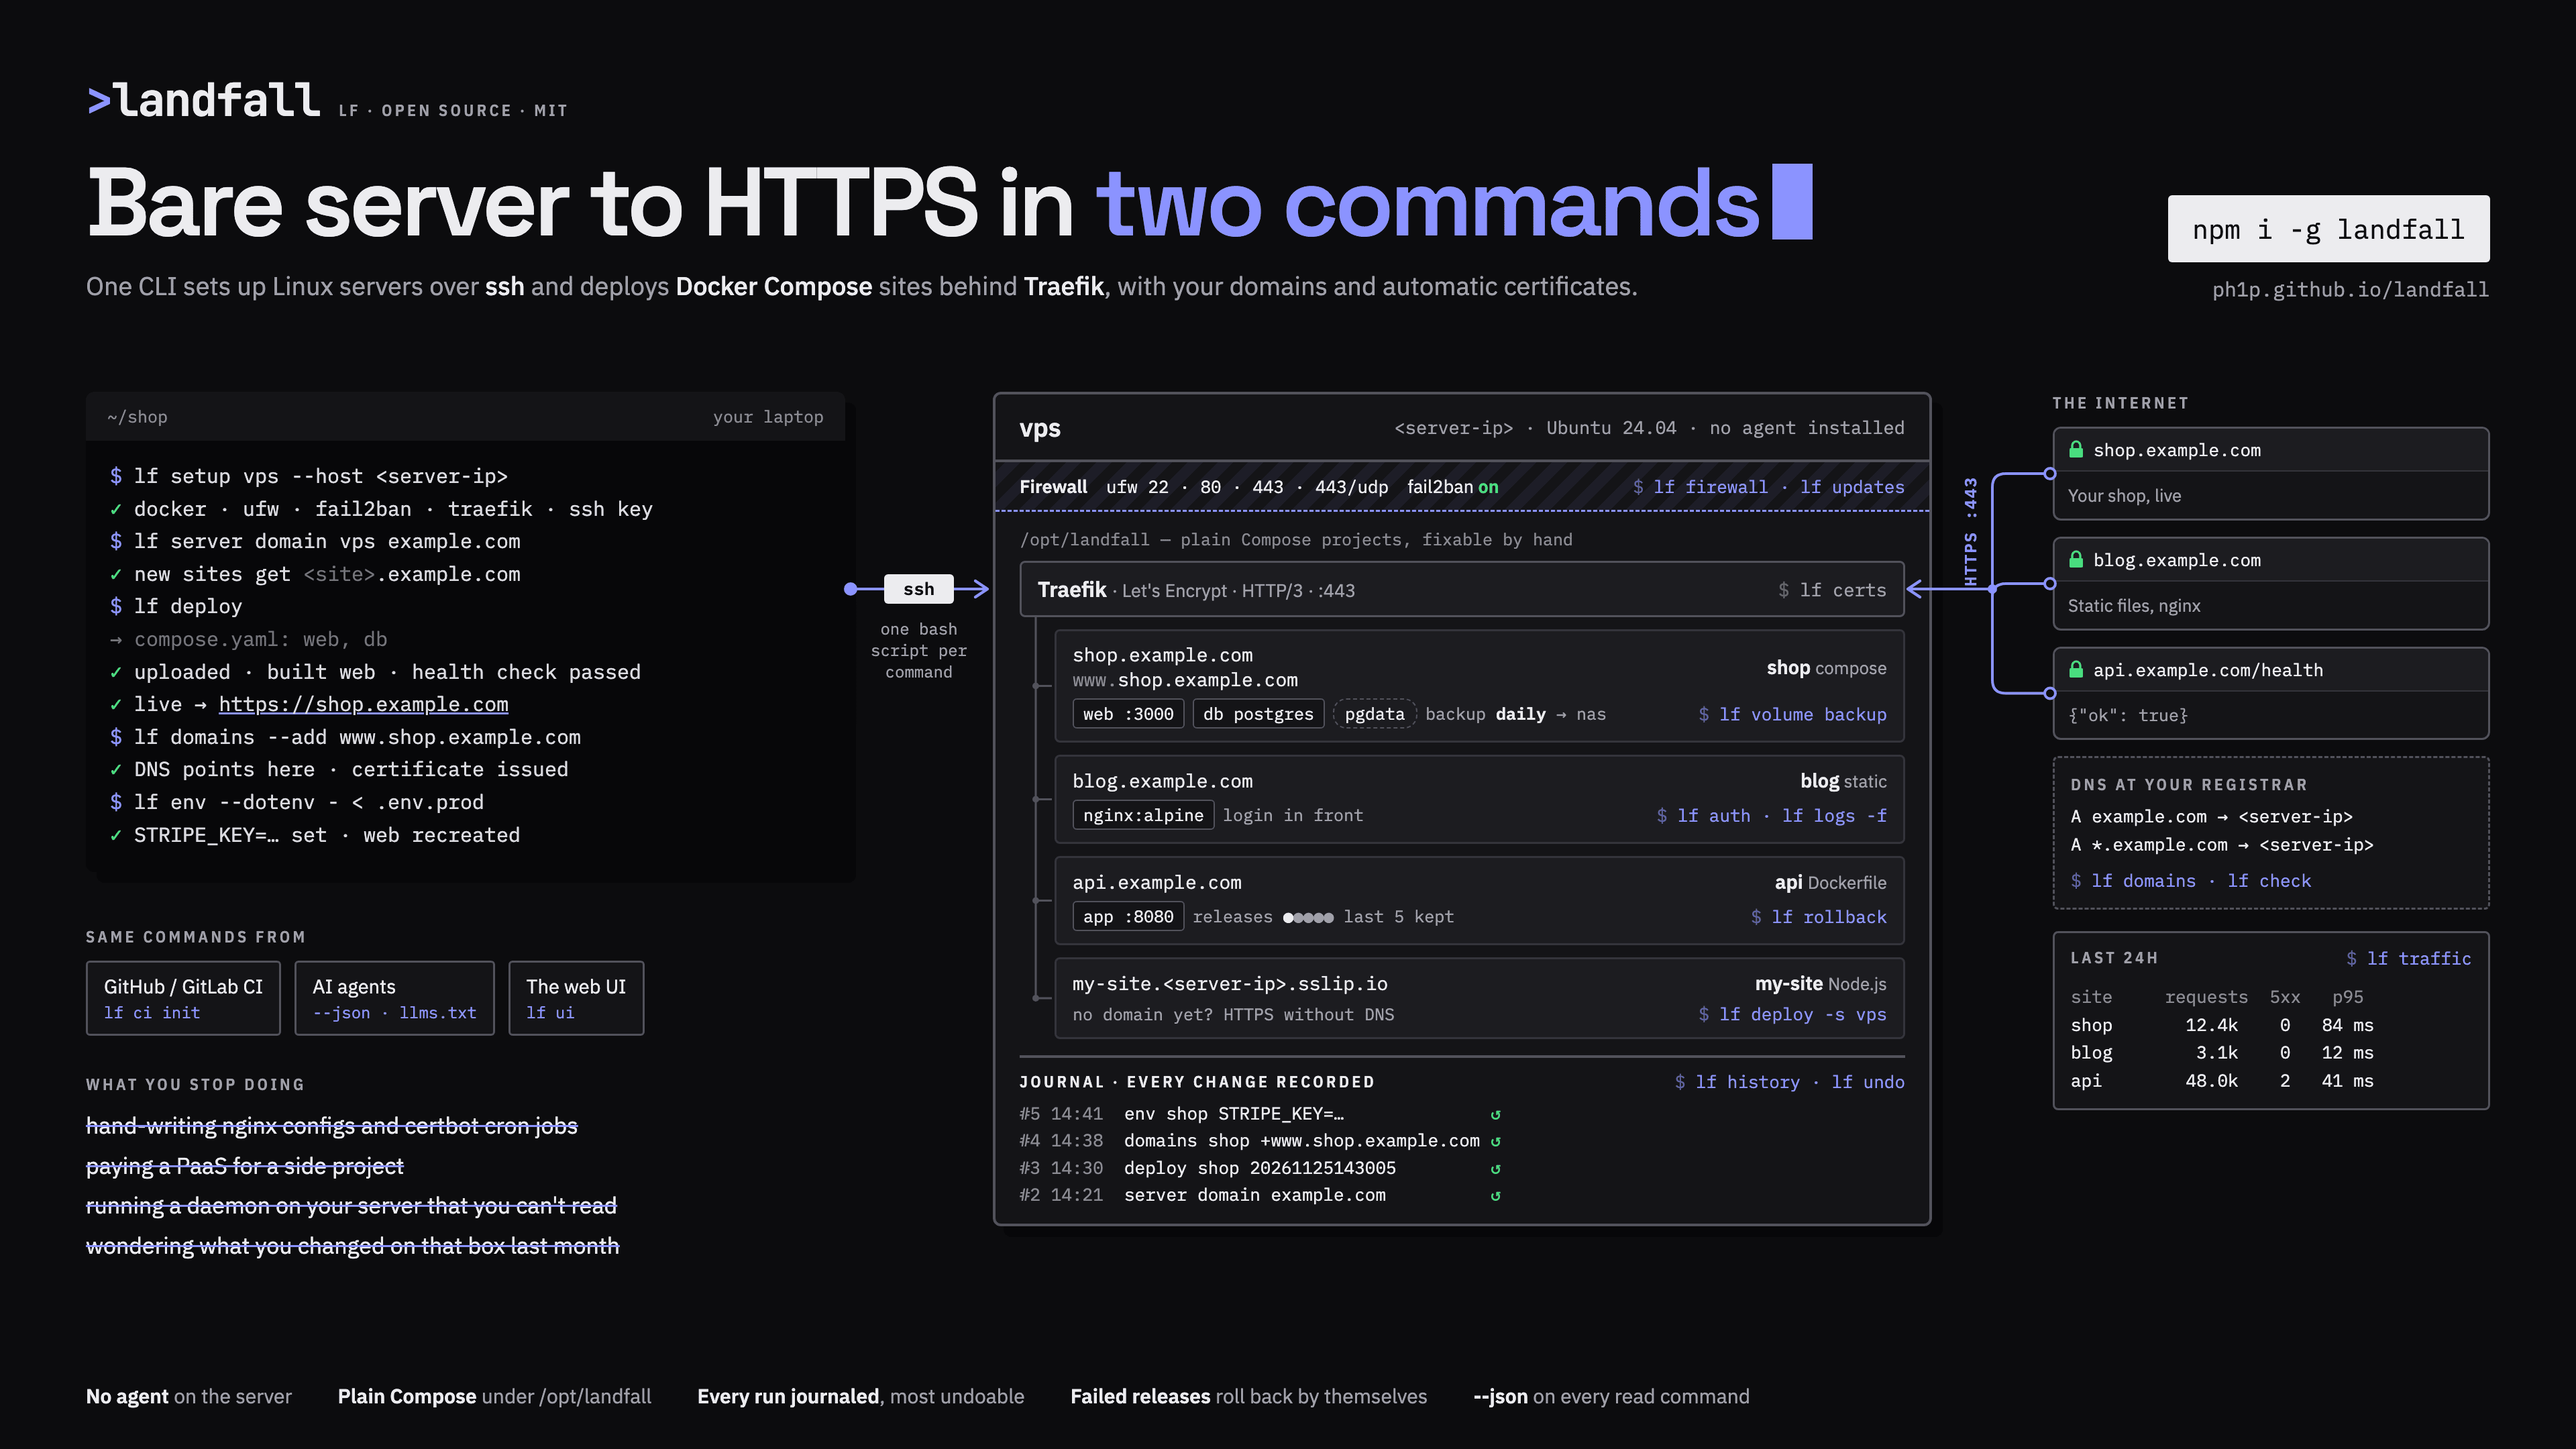
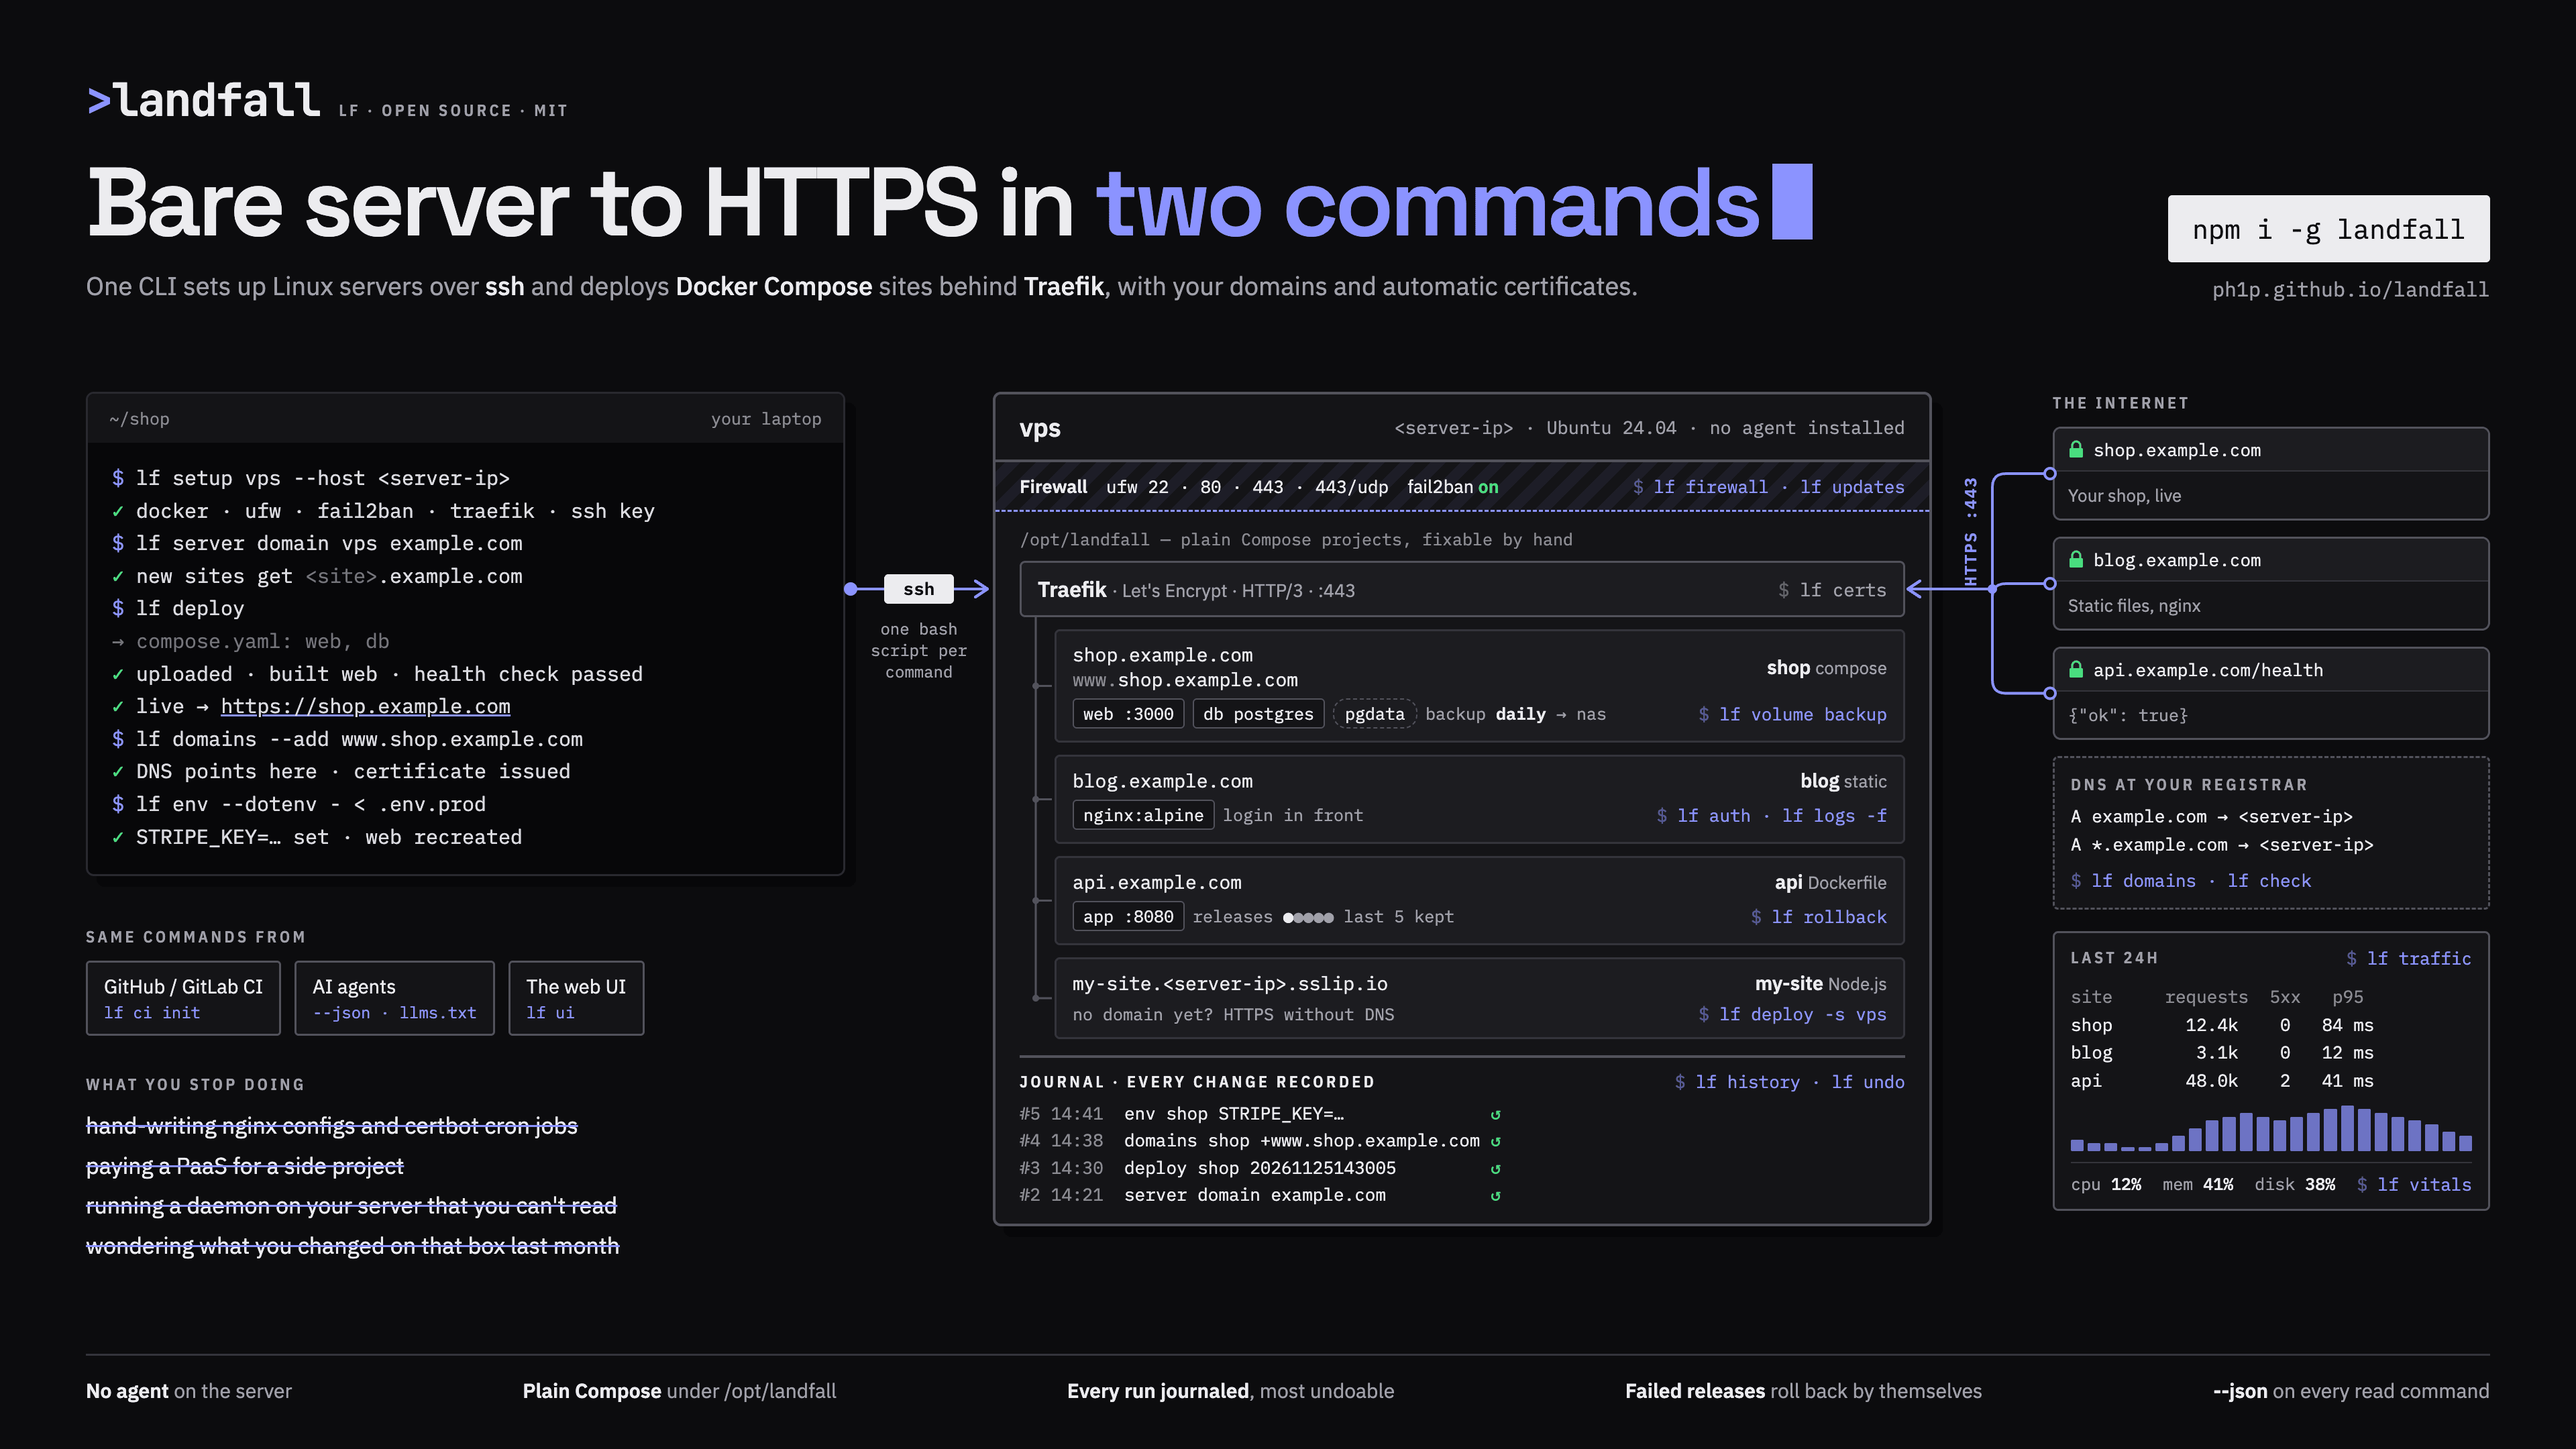
docs: redraw the overview image for light and dark mode
Fix the light theme's shadow and firewall stripe, add traffic and vitals
to the stats card, and give the footer a rule. The docs home shows the
image matching the Vocs theme through #gh-*-mode-only and _root.css.

diff --git a/docs/pages/_root.css b/docs/pages/_root.css
@@ -1,0 +1,18 @@
+/* Images marked #gh-light-mode-only / #gh-dark-mode-only show in one theme, as on GitHub. */
+img[src$="#gh-dark-mode-only"] {
+  display: none;
+}
+@media (prefers-color-scheme: dark) {
+  :root:not([data-vocs-theme="light"]) img[src$="#gh-light-mode-only"] {
+    display: none;
+  }
+  :root:not([data-vocs-theme="light"]) img[src$="#gh-dark-mode-only"] {
+    display: block;
+  }
+}
+:root[data-vocs-theme="dark"] img[src$="#gh-light-mode-only"] {
+  display: none;
+}
+:root[data-vocs-theme="dark"] img[src$="#gh-dark-mode-only"] {
+  display: block;
+}

diff --git a/docs/pages/index.md b/docs/pages/index.md
@@ -2,7 +2,8 @@
 
 Set up Linux servers and deploy sites to them behind [Traefik](https://traefik.io) with automatic HTTPS, from one CLI.
 
-![landfall: a laptop terminal runs lf setup, lf deploy, lf domains and lf env over ssh; the server runs a firewall, Traefik with four sites and a journal of every change; browsers reach the sites over HTTPS](https://raw.githubusercontent.com/ph1p/landfall/main/docs/public/landfall.png)
+![landfall: a laptop terminal runs lf setup, lf deploy, lf domains and lf env over ssh; the server runs a firewall, Traefik with four sites and a journal of every change; browsers reach the sites over HTTPS](https://raw.githubusercontent.com/ph1p/landfall/main/docs/public/landfall.png#gh-light-mode-only)
+![landfall: a laptop terminal runs lf setup, lf deploy, lf domains and lf env over ssh; the server runs a firewall, Traefik with four sites and a journal of every change; browsers reach the sites over HTTPS](https://raw.githubusercontent.com/ph1p/landfall/main/docs/public/landfall-dark.png#gh-dark-mode-only)
 
 ```sh
 npm i -g landfall                   # installs both lf and landfall (lf is short for landfall)
